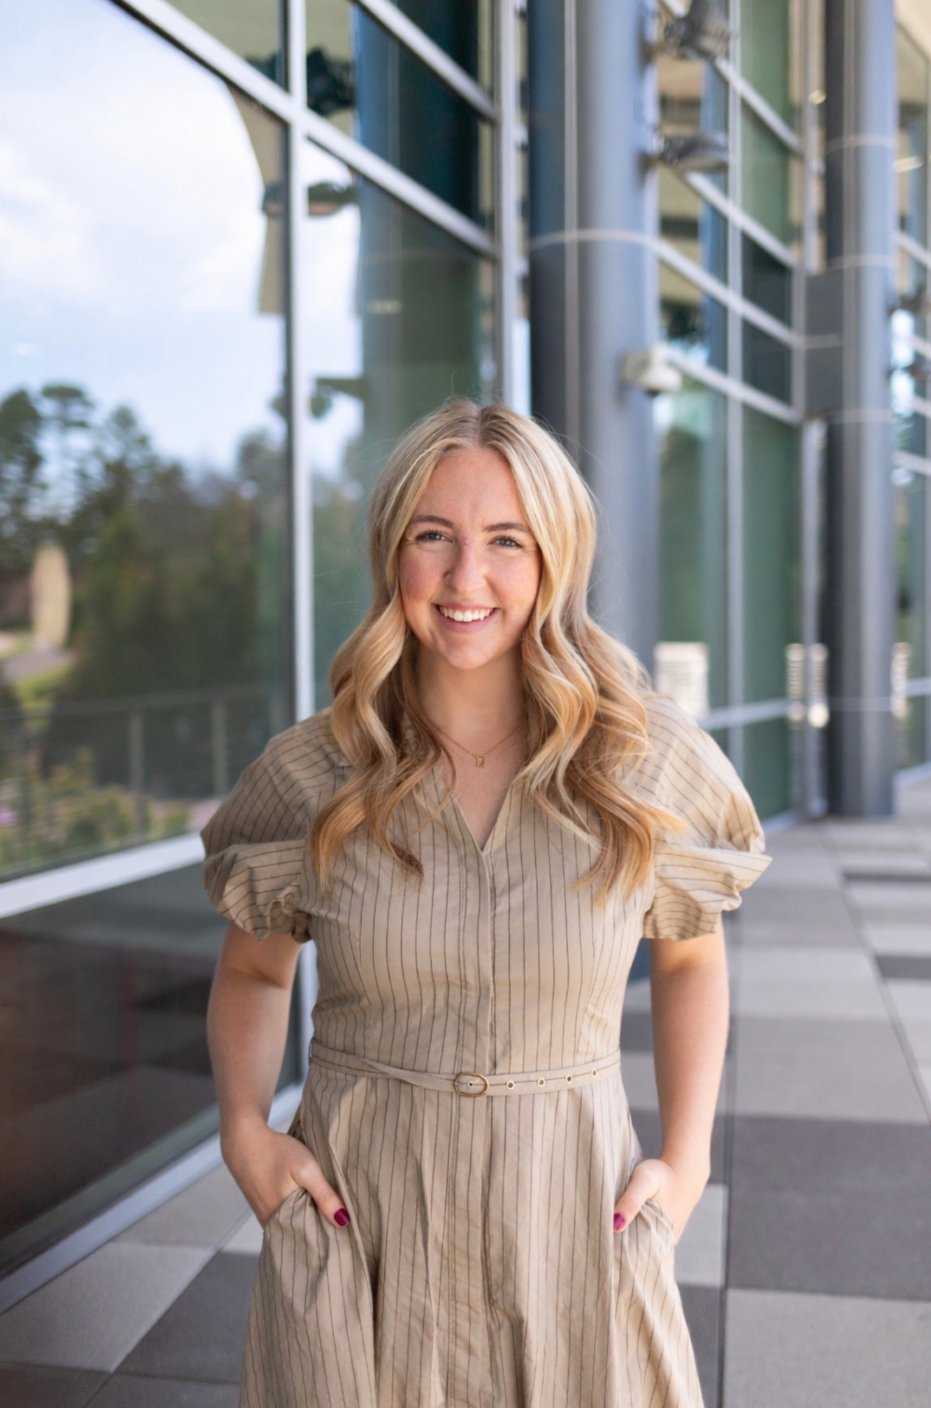
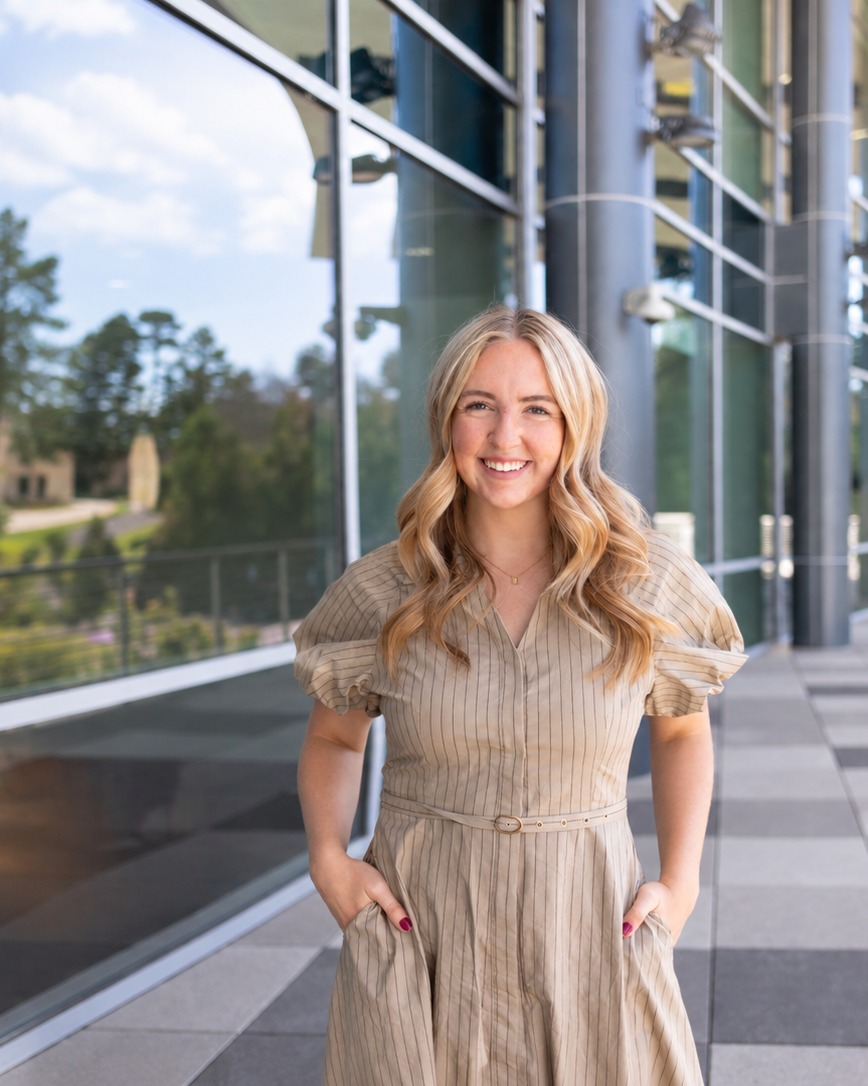
Add files via upload

diff --git a/index.html b/index.html
@@ -540,7 +540,6 @@
         grid-template-columns: 1fr;
       }
       .hero-photo-wrap {
-        max-width: 320px;
         margin-inline: auto;
       }
       .hero-photo-caption {
@@ -584,9 +583,6 @@
 
     /* ---------- Fine-tuning for small phones ---------- */
     @media (max-width: 420px) {
-      .hero-photo-wrap {
-        max-width: 220px;
-      }
       .hero-photo-caption {
         margin-top: -1.5rem;
         padding-top: 2.25rem;
